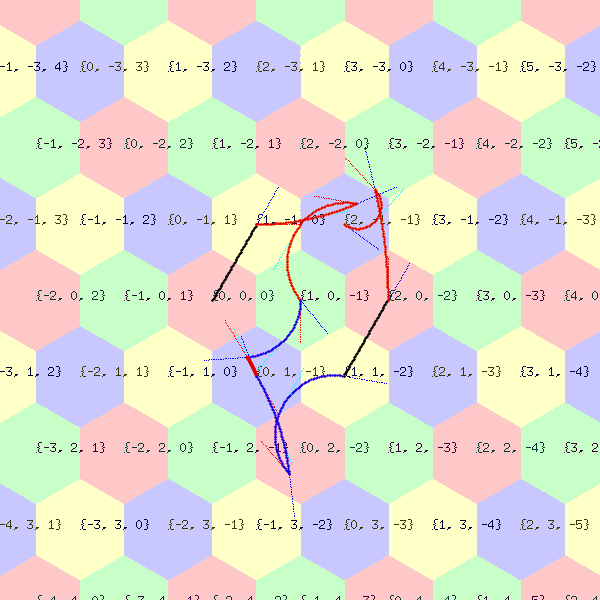
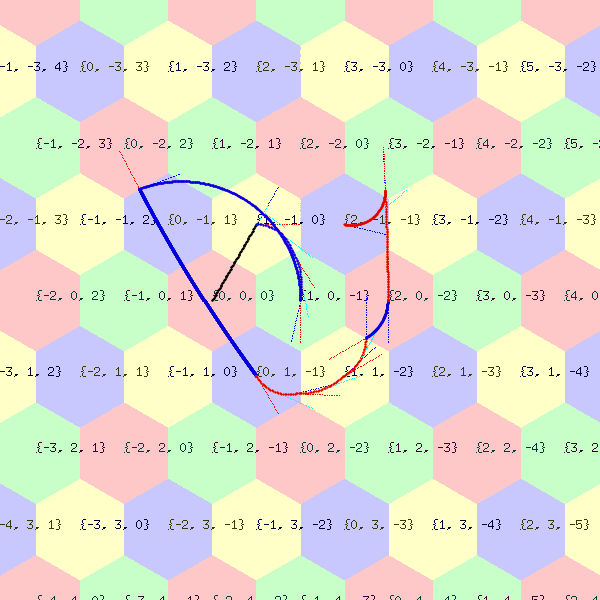
still working on biarc

diff --git a/curve/smoothPath.go b/curve/smoothPath.go
@@ -75,9 +75,9 @@ func approximateTangent(p0, p1, p2 pos.HexFractional) pos.HexFractional {
 }
 
 func findRoots(a, b, c complex128) (r1 complex128, r2 complex128) {
-	component := cmplx.Sqrt(cmplx.Pow(b, 2) - 4*a*c)
-	r1 = (-b + component) / (2 * a)
-	r2 = (-b - component) / (2 * a)
+	component := cmplx.Sqrt(cmplx.Pow(b, 2) - 4.0*a*c)
+	r1 = (-b + component) / (2.0 * a)
+	r2 = (-b - component) / (2.0 * a)
 	return
 }
 
@@ -106,27 +106,24 @@ func Biarc(pi, ti, pe, te pos.HexFractional, r float64) (arcs []CircularArc) {
 		}
 	}
 
-	// Special case where tangents are parallel.
-	if closeEnough(ti.DotProduct(te), 1.0) {
-		//todo
-		return []CircularArc{
-			CircularArc{pi, pe.Subtract(pi).Normalize(), pe},
-		}
-	}
-
-	// Special case where tangents are perpendicular to start-end line
-	if closeEnough(v.DotProduct(ti.Multiply(r).Add(te)), 0.0) {
-		// todo
-		return []CircularArc{
-			CircularArc{pi, pe.Subtract(pi).Normalize(), pe},
-		}
-	}
-
 	// Now find the positive root for
 	// v ⋅ v + 2 β v ⋅ ( r t s + t e ) + 2 r β 2 ( t s ⋅ t e − 1 ) = 0
-	a := v.DotProduct(v)
+	// β^2
+	a := (ti.DotProduct(te) - 1.0) * 2.0 * r
+	// β
 	b := v.DotProduct(ti.Multiply(r).Add(te)) * 2.0
-	c := (ti.DotProduct(te) - 1.0) * 2.0 * r
+	// constant
+	c := v.DotProduct(v)
+
+	// Semicircle case
+	if closeEnough(a, 0.0) {
+		j := pos.LerpHexFractional(pi, pe, 0.5)
+		tj := ti.Multiply(-1.0)
+		return []CircularArc{
+			CircularArc{pi, ti, j},
+			CircularArc{j, tj, pe},
+		}
+	}
 
 	r1, r2 := findRoots(complex(a, 0.0), complex(b, 0.0), complex(c, 0.0))
 
@@ -137,7 +134,7 @@ func Biarc(pi, ti, pe, te pos.HexFractional, r float64) (arcs []CircularArc) {
 	} else if closeEnough(imag(r2), 0.0) && real(r2) >= 0.0 {
 		beta = real(r2)
 	} else {
-		panic("something terrible happened")
+		panic(fmt.Sprintf("Can't find good roots for %v*β^2+%v*β+%v=0", a, b, c))
 	}
 
 	alpha := r * beta
@@ -147,16 +144,15 @@ func Biarc(pi, ti, pe, te pos.HexFractional, r float64) (arcs []CircularArc) {
 	wti := pi.Add(ti.Multiply(alpha))
 	// wte is p4w
 	wte := pe.Add(te.Multiply(beta * (-1.0)))
-	// todo: wti and wte need to be further scaled by
-	// w 1 = cos( α 1 ) , w 3 = cos( α 2 ) ,
-	// where α 1 and α 2 denote the half sweep angles of the
-	// first and the second arc, respectively.
+
+	fmt.Printf("wti=%s, wte=%s", wti.ToString(), wte.ToString())
 
 	// j is the joint point between the two arcs.
-	j := wti.Multiply(beta / (alpha + beta)).Add(wte.Multiply(alpha / (alpha + beta)))
+	//j := wti.Multiply(beta / (alpha + beta)).Add(wte.Multiply(alpha / (alpha + beta)))
+	j := pos.LerpHexFractional(wti, wte, beta/(alpha+beta))
 	// tj is the tangent at point j
 	tj := wte.Subtract(wti).Normalize()
-	//_, c1t, _ := CircularArc{pi, ti, j}.Curve().Sample(1.0)
+	//_, tj, _ := CircularArc{pi, ti, j}.Curve().Sample(1.0)
 	//if !c1t.AlmostEquals(tj) {
 	//	panic("not G0 connected")
 	//}

diff --git a/example/drawPath_test.go b/example/drawPath_test.go
@@ -63,15 +63,18 @@ func TestBiarcDrawing(t *testing.T) {
 
 	cc.Grid(dd)
 
-	b := curve.Biarc(
-		pos.HexFractional{Q: -1.0, R: 0.0},
-		pos.HexFractional{Q: 1.0, R: -2.0},
-		pos.HexFractional{Q: 1.0, R: 0.0},
-		pos.HexFractional{Q: 1.0, R: 0.0},
-		1.0)
-	for _, arc := range b {
-		c := arc.Curve()
-		cc.Curve(getColor(c), c)
+	rVals := []float64{0.5, 1.0, 1.5}
+	for _, r := range rVals {
+		b := curve.Biarc(
+			pos.HexFractional{Q: -1.0, R: 0.0},
+			pos.HexFractional{Q: 1.0, R: -2.1},
+			pos.HexFractional{Q: 1.0, R: 0.0},
+			pos.HexFractional{Q: 1.0, R: -0.1},
+			r)
+		for _, arc := range b {
+			c := arc.Curve()
+			cc.Curve(getColor(c), c)
+		}
 	}
 
 	fpath, err := draw.Save(img, "TestBiarcDrawing.png")
